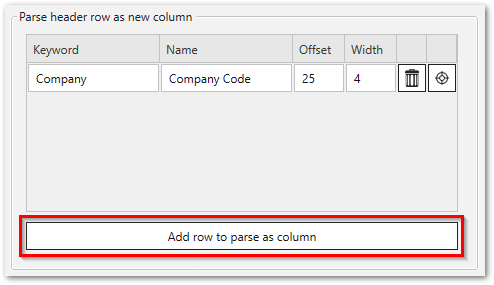
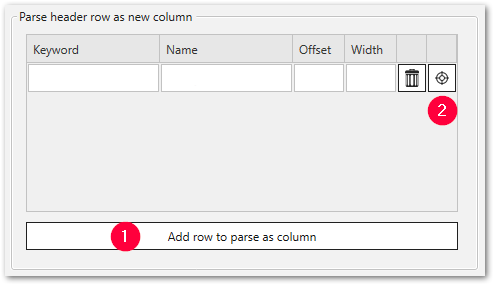
article

diff --git a/includes/components/report/report-columns-define.md b/includes/components/report/report-columns-define.md
@@ -60,8 +60,17 @@ Knowledge Base Article (Skip rows and Parse rows as Header).
 
 ![skip-and-parse-rows](../../assets/images/documentation/components/report/skip-and-parse-rows.png){:class="img-responsive"}
 
-
 ### Row Settings
+
+The {{ report }} {{ component }} offers multiple ways to remove rows from the result set of the report extraction:
+
+| Option | Description |
+|--------|-------------|
+| [Skip rows from top](#skip-rows-from-top) | Removes the first n rows from the top of the report. Use this option to skip rows in the header. | 
+| [Skip rows from button](#skip-rows-from-bottom) | Removes the last n rows from the button of the report. Use this option to skip rows in the footer. | 
+| [Skip rows by pattern](#skip-rows-from-bottom) | Uses a pattern or regular expression to remove rows that contain the pattern. If no regular expressions are involved, it is recommended to use the **Skip rows by keayword** option. | 
+| [Skip rows by keyword](#skip-rows-by-keyword) | Uses a keyword to remove all rows that contain the keyword. Use this option to remove header rows that are repeated in the output body of reports or rows that contain *sum* calculations. |
+
 
 #### Skip rows from top
 Enter the number of rows you want to skip at the beginning of the report.
@@ -88,35 +97,39 @@ Alternatively, right-click the row that you want to use as a header and select *
 
 This setting is usually not required if the report's columns can be [detected automatically](report-columns-define.md/#define-columns-automatically) and *Dynamic column widths and offsets* is active in the main window of the {{ component }}.
 
-<span style="color:blue">Rows that contain the header pattern displayed in a blue font in the preview section.</span>
+Rows that contain the header pattern displayed in a <span style="color:blue">blue</span> font in the preview section.
 
-#### Skip row pattern
+#### Skip rows by pattern
 
 Enter a search pattern. All report rows that contain the pattern are removed from the result set. 
-Rows are removed *after* the report data was extracted from SAP.
-Regular expressions is supported. Multiple row skip patterns can be entered separated by the pipe symbol '|'.
+The skip row setting can be used to skip header rows that are repeated in the output body of reports, see also [Skip rows by keyword](#skip-rows-by-keayword).<br>
+The live preview in the {{ report }} {{ component }} does not include the **Row Skip Pattern** option, because the rows are only removed after the report data is extracted from SAP. 
 
-Example: `2020|2021|-|Sum` removes all rows containing the pattern '2020', '2021', '-' and 'Sum'. 
+- Regular expressions are supported
+- Multiple row skip patterns can be entered, separated by the pipe symbol "`|`", e.g., `2020|2021|-|Sum` removes all rows containing ‘2020’, ‘2021’, ‘-‘ and ‘Sum’.
+- To process special symbols, add `\`before the symbol, e.g., `\*` removes rows that contain the sum symbol * .
+{% if page.meta.product == "xtract-universal" %}- Only works with database destinations, e.g., Microsoft Azure Storage,  Mircosoft SQl Server, Snowflake, etc.{% endif %}
 
-The skip row setting can be used for skipping header rows that are repeated in the output body of reports.
-For more information, see [Knowledge Base Article: Skip Rows in Reports](../../knowledge-base/skip-rows-in-reports.md).
 
 !!! note
 	This setting is usually not required if the report columns can be [detected automatically](report-columns-define.md/#define-columns-automatically) and *Dynamic column widths and offsets* is checked in the Report window.
 
-### Remove Rows
+
+### Skip Rows by Keyword
 
 #### Add row to Skip
 <!---
 ![remove rows](../../assets/images/documentation/components/report/remove-rows.png){align=right :class="img-responsive"}
 --->
 
-Define specific rows that are removed from the result set. 
+Define rows that are removed from the result set of the report extraction.
+This option can be used to skip header rows that are repeated in the output body of reports.
 
-Click **[Add row to skip]** and enter a string from the row you want to remove, e.g., `**` removes all rows that contain the characters `**`.
-Alternatively, right-click the row you want to remove and select **Ignore/unignore row** from the context menu.
+- Click **[Add row to skip]** and enter a string from the row you want to remove. <br>
+Example: `**` removes all rows that contain the characters `**`.
+- Alternatively, right-click the row you want to remove and select **Ignore/unignore row** from the context menu.
 
-<span style="color:gray">Rows that are excluded from the result set are displayed in a gray font in the preview section.</span>
+Rows that are excluded from the result set are displayed in a <span style="color:gray">gray</span> font in the preview section.
 
 ### Parse Header Row as new Column
 
@@ -128,24 +141,35 @@ Alternatively, right-click the row you want to remove and select **Ignore/unigno
 Define rows that are added to the result set as columns. 
 This option can be used for reports that contain groups with multiple headers.
 
-To add a new column, click **[Add row to parse as column]**.
-Alternatively, right-click a header row you want to use as a column and select **Parse header row as new column** from the context menu.
-To define the column, enter the following column properties manually or use the [parse helper](#parse-helper) to define the column properties:
+- Click **[Add row to parse as column]** to add a new column.
+- Alternatively, right-click a header row you want to use as a column and select **Parse header row as new column** from the context menu.
+
+Enter the following column properties manually or use the [parse helper](#parse-helper) to define the column properties:
 
 | Property | Description | 
 |----------|-------------|
-| *Keyword*  | Enter a string from the row you want to add to the result set as a column. The report is scanned for rows that contain the string.|
+| *Keyword*  | Enter a string from the row you want to add to the result set as a column. The report is scanned for rows that contain the string. The keyword search is case sensitive. |
 | *Name*     | Enter a name for the new column.|
 | *Offset*   | Define the beginning (offset) of the content that is written into the new column. <br>Example: Enter 0 if the content for the new column is located at the start of the row.<br>Enter 25 if the content starts 25 characters into the row.|
 | *Width*    | Define the width of the new column.|
 
 
-Rows that are parsed as a new column are displayed in a <span style="color:red">red font</span> in the preview section.
+Rows that are parsed as a new column are displayed in a <span style="color:red">red</span> font in the preview section.
 
 #### Parse Helper
 
-Click **[:material-target:]** to open a parse helper that helps you define the column properties.
+The parse helper is a feature that helps you define properties for new columns:
 
+1. In the subsection *Parse Header Row as new Column*, click **[Add row to parse as column]**:number-1: to add a new column to the result set. <br>
+![parse row as header](../../assets/images/documentation/components/report/parse-row-as-header.png){:class="img-responsive"}
+2. Click **[:material-target:]** :number-2:. The window "Parse Helper" opens and a new preview of the report data is fetched. This can take a while.
+3. Enter a string from the row you want to add to the result set as a column. Matching rows are displayed in the preview section of the window.
+The keyword search is case sensitive.
+4. Make sure only header rows are displayed in the preview section. If the preview includes regular rows, edit the keyword until only header rows remain.
+5. Enter a name for the new column. 
+6. Mark the content of the column in the preview section by pressing and dragging the mouse pointer over the length of the content. <br>
 ![parse helper](../../assets/images/documentation/components/report/parse-helper.png){:class="img-responsive"}
+7. Click **[OK]** to save the column properties.
 
-<span style="color:red">Rows that are parsed as a new column are displayed in a red font in the preview section.</span>
+The new column is added at the beginning of the report *after* running the {{ extraction }}. 
+The column is not included in the preview section of the {{ component }}, but the rows that are parsed as a new column are displayed in a <span style="color:red">red</span> font.

diff --git a/includes/articles/report/parse-reports.md b/includes/articles/report/parse-reports.md
@@ -1,0 +1,91 @@
+
+This articles shows how to use {{ productName }} to parse a report that contains groups of data sets as a single data set. <br>
+The depicted example uses the report *FBL3N* that contains multiple groups where each group has their own header and calculation rows.
+The article leads you through the following steps to merge all groups into a single data set:
+
+- [Remove rows](#remove-rows) that contain that contain *sum* caluculations and other unnecessary rows.
+- [Select a header](#select-a-header) for the report.
+- [Parse rows that contain additional headers as columns.](#parse-rows-with-additional-headers-as-columns)
+
+### About the Report
+
+The report FBL3N has multiple groups for different Accounts or Company Codes.
+When extracting the report as is, 
+
+the groups are separated by "-" characters and the calculation rows are the ones with the * character in them.
+
+When combining groups, the Account Number (here 132000) and / or the Company code can be added as columns (see first two columns on the left side of the
+
+
+
+=== "Report without skipping and parsing"
+	
+	![report-no-skip-rows](site:assets/images/articles/report/report-no-skip-rows.png){:class="img-responsive"}
+
+=== "Report with skip and parsing"	
+	
+	![report-no-skip-rows](site:assets/images/articles/report/report-skip-rows.png)
+
+
+```csv
+Company Code,St,Assignment,DocumentNo,BusA,Type,Doc. Date,PK,Amount in local cur.,LCurr,Tx,Clrng doc.,Text
+0001        ,       ,20130325          ,2000000071,    ,ZP      ,25.03.2013,50,"           1.234,00-",EUR  ,  ,          ,                                                  
+0001        ,       ,20130325          ,2000000071,    ,ZP      ,25.03.2013,50,"           1.234,00-",EUR  ,  ,          ,                                                  
+0001        ,       ,20130325          ,2000000071,    ,ZP      ,25.03.2013,50,"           1.234,00-",EUR  ,  ,          ,                                                  
+0001        ,       ,20130325          ,2000000071,    ,ZP      ,25.03.2013,50,"           1.234,00-",EUR  ,  ,          ,                                             
+0005        ,       ,20051231          ,100000000 ,    ,SA      ,31.12.2005,40,"          60.000,00 ",EUR  ,  ,          ,Test for Allocation FI                            
+0005        ,       ,20051231          ,100000000 ,    ,SA      ,31.12.2005,40,"          60.000,00 ",EUR  ,  ,          ,Test for Allocation FI                            
+0005        ,       ,20051231          ,100000000 ,    ,SA      ,31.12.2005,40,"          60.000,00 ",EUR  ,  ,          ,Test for Allocation FI                            
+0005        ,       ,20051231          ,100000000 ,    ,SA      ,31.12.2005,40,"          60.000,00 ",EUR  ,  ,          ,Test for Allocation FI                            
+0005        ,       ,20060413          ,100000018 ,    ,SA      ,13.04.2006,50,"          10.000,00-",EUR  ,  ,          ,                                                  
+0005        ,       ,20060413          ,100000018 ,    ,SA      ,13.04.2006,50,"          10.000,00-",EUR  ,  ,          ,                                                  
+0005        ,       ,20060413          ,100000018 ,    ,SA      ,13.04.2006,50,"          10.000,00-",EUR  ,  ,          ,                                     
+0006        ,       ,20090922          ,100000000 ,    ,SA      ,22.09.2009,40,"      80.000.000,00 ",USD  ,  ,          ,                                                  
+0006        ,       ,20090922          ,100000000 ,    ,SA      ,22.09.2009,40,"      80.000.000,00 ",USD  ,  ,          ,                                                  
+0006        ,       ,20090922          ,100000000 ,    ,SA      ,22.09.2009,40,"      80.000.000,00 ",USD  ,  ,          ,                                                  
+0006        ,       ,20090922          ,100000000 ,    ,SA      ,22.09.2009,40,"      80.000.000,00 ",USD  ,  ,          ,  
+```
+
+### Remove Rows
+
+Follow the steps below to remove rows that contain *sum* caluculations. Note that these rows usually contain * symbols.
+
+For more information on how to manupulate rows in report extractions, see [Documentation: Rows](../documentation/report/report-columns-define/#rows).
+
+### Select a Header
+
+### Parse Rows with Additional Headers as Columns
+
+In the depicted example, the report RFITEMGL contains rows that total the content of the rows before. 
+These rows are marked with an * symbol: <br>
+
+=== "Report without Row Skip Patterns"
+	
+	![report-no-skip-rows](site:assets/images/articles/report/report-no-skip-rows.png){:class="img-responsive"}
+
+=== "Report with Row Skip Patterns"	
+	
+	![report-no-skip-rows](site:assets/images/articles/report/report-skip-rows.png)
+
+To remove all rows that contain the * symbol, follow the instructions below:
+
+1. Look up a report. The depicted example uses the report RFITEMGL. 
+2. Define the columns of the report automatically or manually, see {% if page.meta.product == "xtract-universal" or page.meta.product == "board-connector" %}[Documentation: Define the Report Extraction Type](../documentation/report/index.md/#define-the-report-extraction-type){% else %}[Documentation: Define the Xtract Report Component](../documentation/report/index.md/#define-the-xtract-report-component){% endif %}. <br>
+![report-no-skip-rows](site:assets/images/articles/report/report-skip-rows-preview.png)
+3. Click {{ settingsBtn }}. The window "Extraction Settings" open.<br>
+![report-no-skip-rows](site:assets/images/articles/report/report-skip-rows-settings.png)
+4. Enter a **Row skip pattern**. To process special symbols, add `\`before the symbol, e.g., to remove rows that contain the sum symbol * , enter `\*`. 
+5. Click **[OK]** to close the {{ settings }}. 
+5. Click **[OK]** to save the extraction. Note that the live preview of the report component does not include the **Row skip pattern** option. 
+**Row skip pattern** is only executed when running the extraction.
+6. Run the {{ extraction }}. 
+
+The extracted report does not include rows that contain a * symbol.
+
+
+
+******
+
+#### Related Links
+- [Documentation: Skip Rows by Keyword](../documentation/report/report-columns-define/#skip-rows-by-keyword)
+- [Documentation: Skip Rows by Keyword](../documentation/report/report-columns-define/#parse-header-row-as-new-column)

diff --git a/projects/xtract-universal/docs/knowledge-base/index.md b/projects/xtract-universal/docs/knowledge-base/index.md
@@ -138,7 +138,7 @@ The following articles refer to specific [{{ components }}](../documentation/int
 
 <div class="mdx-columns" markdown>
 
-- [Alternatives for the ODP Extraction Type :material-alert-decagram:](alternatives-for-odp.md)
+- [Alternatives for the ODP Extraction Type](alternatives-for-odp.md)
 
 </div>
 
@@ -149,7 +149,7 @@ The following articles refer to specific [{{ components }}](../documentation/int
 
 - [Authorize Access to Reports via Authorization Groups](authorize-access-to-specific-reports.md)
 - [Create the Custom Authorization Object Z_TS_PROG](create-the-custom-authority-object-z-ts-prog.md)
-- [Skip Rows in Reports](skip-rows-in-reports.md)
+- [Parse Reports in {{ productName }} :material-alert-decagram:](parse-reports.md)
 
 </div>
 

diff --git a/projects/xtract-for-alteryx/docs/knowledge-base/index.md b/projects/xtract-for-alteryx/docs/knowledge-base/index.md
@@ -52,7 +52,7 @@ hide:
 
 <div class="mdx-columns" markdown>
 
-- [Alternatives for Xtract ODP :material-alert-decagram:](alternatives-for-odp.md)
+- [Alternatives for Xtract ODP](alternatives-for-odp.md)
 - [Delta Extraction of Sales and Customer Data from SAP](delta-extraction-of-sales-data.md)
 
 </div>
@@ -65,7 +65,7 @@ hide:
 
 - [Authorize Access to Reports via Authorization Groups](authorize-access-to-specific-reports.md)
 - [Create the Custom Authorization Object Z_TS_PROG](create-the-custom-authority-object-z-ts-prog.md)
-- [Skip Rows in Reports](skip-rows-in-reports.md)
+- [Parse Reports in {{ productName }} :material-alert-decagram:](parse-reports.md)
 
 </div>
 

diff --git a/projects/board-connector/docs/knowledge-base/index.md b/projects/board-connector/docs/knowledge-base/index.md
@@ -82,7 +82,7 @@ hide:
 
 <div class="mdx-columns" markdown>
 
-- [Alternatives for the ODP Extraction Type :material-alert-decagram:](alternatives-for-odp.md)
+- [Alternatives for the ODP Extraction Type](alternatives-for-odp.md)
 
 </div>
 
@@ -94,7 +94,7 @@ hide:
 
 - [Authorize Access to Reports via Authorization Groups](authorize-access-to-specific-reports.md)
 - [Create the Custom Authorization Object Z_TS_PROG](create-the-custom-authority-object-z-ts-prog.md)
-- [Skip Rows in Reports](skip-rows-in-reports.md)
+- [Parse Reports in {{ productName }} :material-alert-decagram:](parse-reports.md)
 
 </div>
 

diff --git a/projects/xtract-is/docs/knowledge-base/index.md b/projects/xtract-is/docs/knowledge-base/index.md
@@ -64,7 +64,7 @@ hide:
 
 <div class="mdx-columns" markdown>
 
-- [Alternatives for Xtract ODP :material-alert-decagram:](alternatives-for-odp.md)
+- [Alternatives for Xtract ODP](alternatives-for-odp.md)
 
 </div>
 
@@ -76,7 +76,7 @@ hide:
 
 - [Authorize Access to Reports via Authorization Groups](authorize-access-to-specific-reports.md)
 - [Create the Custom Authorization Object Z_TS_PROG](create-the-custom-authority-object-z-ts-prog.md)
-- [Skip Rows in Reports](skip-rows-in-reports.md)
+- [Parse Reports in {{ productName }} :material-alert-decagram:](parse-reports.md)
 
 </div>
 

diff --git a/projects/xtract-for-alteryx/docs/knowledge-base/parse-reports.md b/projects/xtract-for-alteryx/docs/knowledge-base/parse-reports.md
@@ -1,0 +1,8 @@
+---
+title: Parse Reports in Xtract for Alteryx
+description: Parse Reports in {{ productName }} by removing rows, using header rows as columns and more.
+tags:
+  - RFITEMGL
+---
+
+{% include "articles/report/parse-reports.md" %}

diff --git a/projects/board-connector/docs/knowledge-base/parse-reports.md b/projects/board-connector/docs/knowledge-base/parse-reports.md
@@ -1,0 +1,8 @@
+---
+title: Parse Reports in Board Connector
+description: Parse Reports in {{ productName }} by removing rows, using header rows as columns and more.
+tags:
+  - RFITEMGL
+---
+
+{% include "articles/report/parse-reports.md" %}

diff --git a/projects/xtract-universal/docs/knowledge-base/parse-reports.md b/projects/xtract-universal/docs/knowledge-base/parse-reports.md
@@ -1,0 +1,8 @@
+---
+title: Parse Reportsin Xtract Universal
+description: Parse Reports in {{ productName }} by removing rows, using header rows as columns and more.
+tags:
+  - RFITEMGL
+---
+
+{% include "articles/report/parse-reports.md" %}

diff --git a/projects/xtract-is/docs/knowledge-base/parse-reports.md b/projects/xtract-is/docs/knowledge-base/parse-reports.md
@@ -1,0 +1,8 @@
+---
+title: Parse Reports in Xtract IS
+description: Parse Reports in {{ productName }} by removing rows, using header rows as columns and more.
+tags:
+  - RFITEMGL
+---
+
+{% include "articles/report/parse-reports.md" %}
